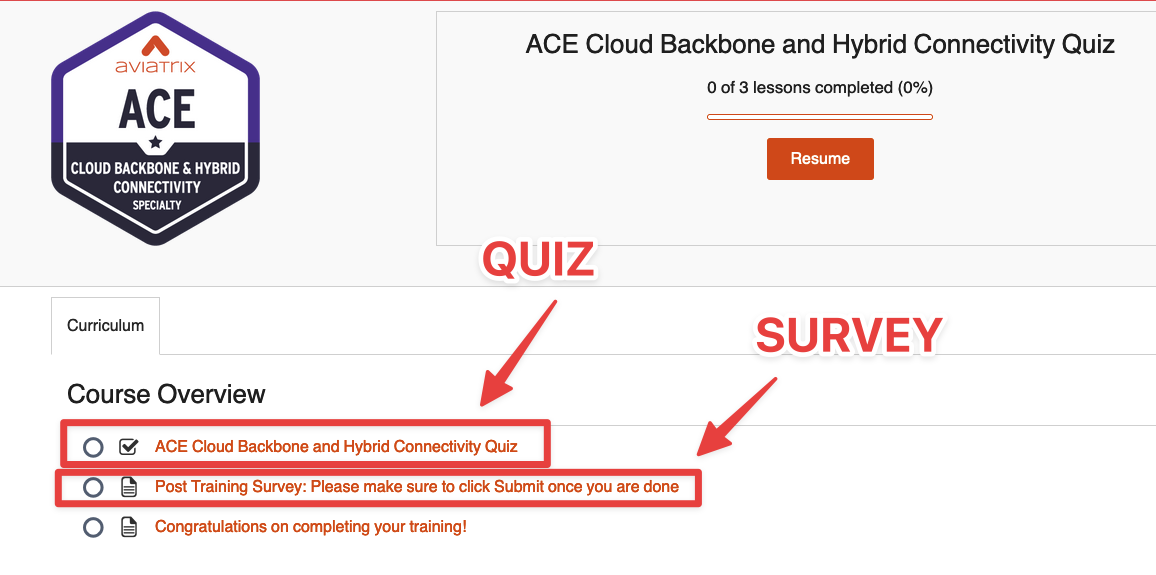
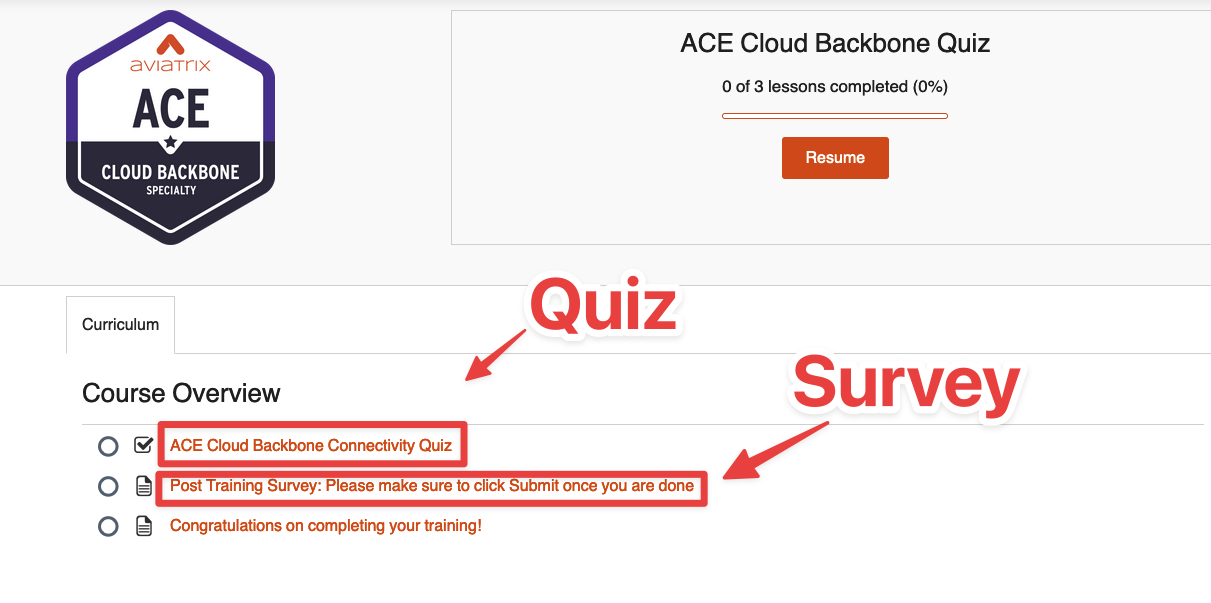
new update for backbone

diff --git a/ace_backbone/docs/quiz.md b/ace_backbone/docs/quiz.md
@@ -3,7 +3,7 @@
 ## Link
 You can access both the **Quiz** and the **Survey** Portal clicking on the picture below. 
 
-<a href="https://ace.aviatrix.com/ace-cloud-backbone-and-hybrid-connectivity-quiz" target="_blank">
+<a href="https://ace.aviatrix.com/ace-cloud-backbone-quiz" target="_blank">
 
 ![My image](images/quiz.png)
 
@@ -22,17 +22,34 @@ Portal
 
 ```{important}
 After logged in, click on **"ACE Cloud Backbone and Hybrid Connectivity Quiz"**.
-
-After submitted your quiz, click on **Next** and do not forget to complete the quick survey!
 ```
+
+- To complete the quiz, you must use the Aviatrix ACE-Backbone POD
+- Read-only access is provided
+- You have **24** hours to complete the quiz
+- After 24 hours lab pod will be shutdown
 
 ```{figure} images/survey.png
 ---
 align: center
 ---
-Portal
+Quiz and Survey links
 ```
 
+- Start the quiz!
+
+```{figure} images/start-quiz.png
+---
+align: center
+---
+Good luck!
+```
+
+```{important}
+After submitted your quiz, click on **Next** and do not forget to complete the quick survey!
+```
+
+- Submit your answers!
 ```{figure} images/quiz2.png
 ---
 align: center
